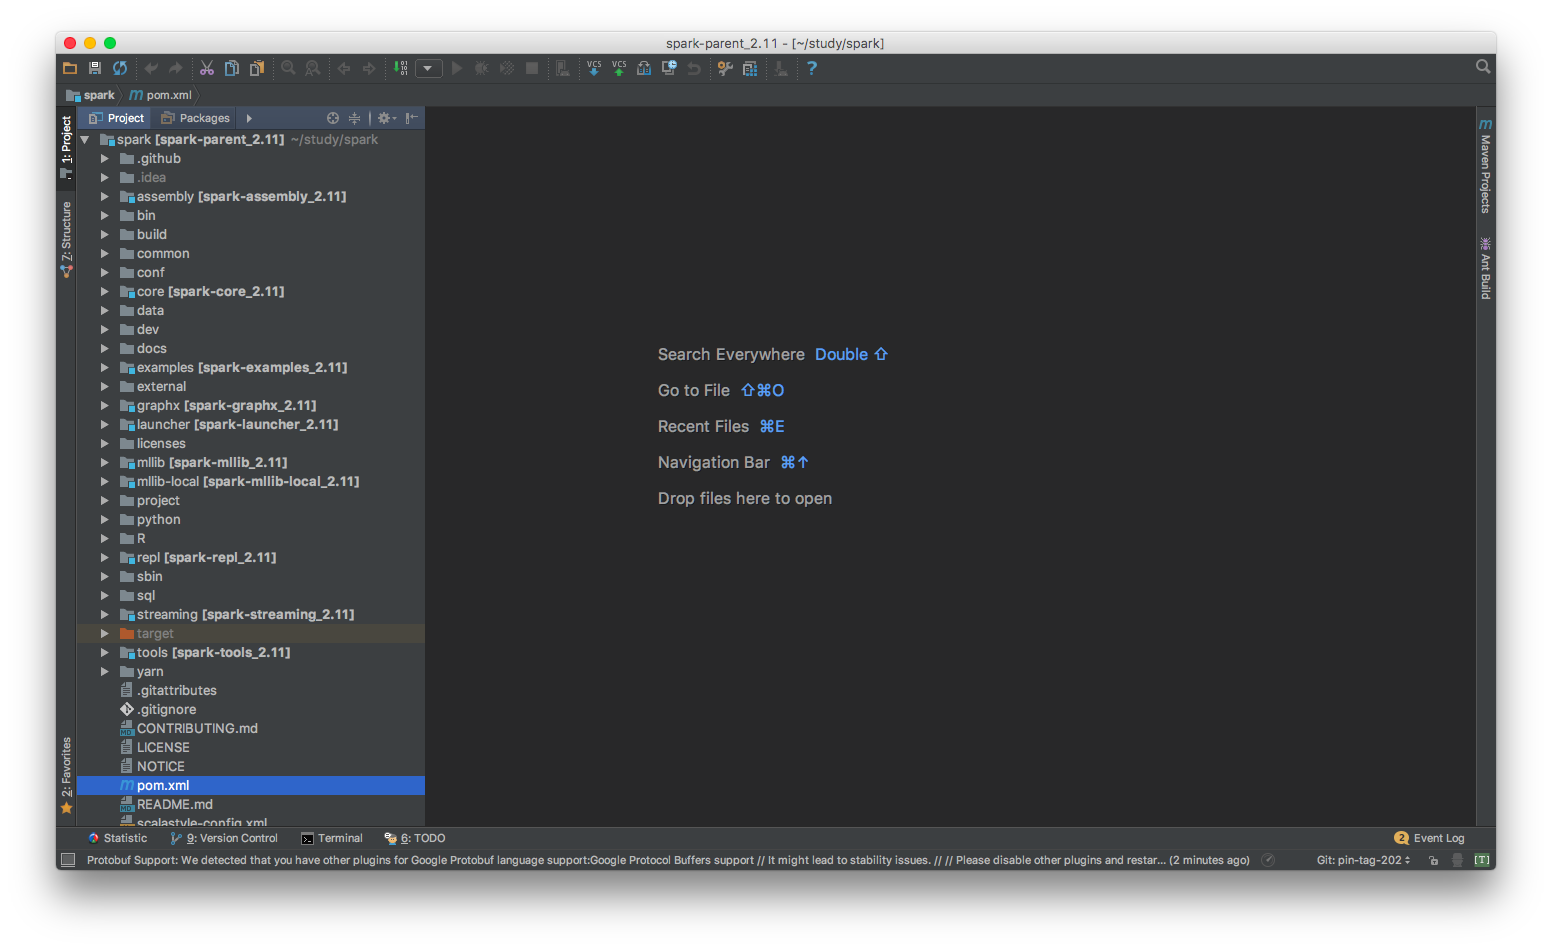
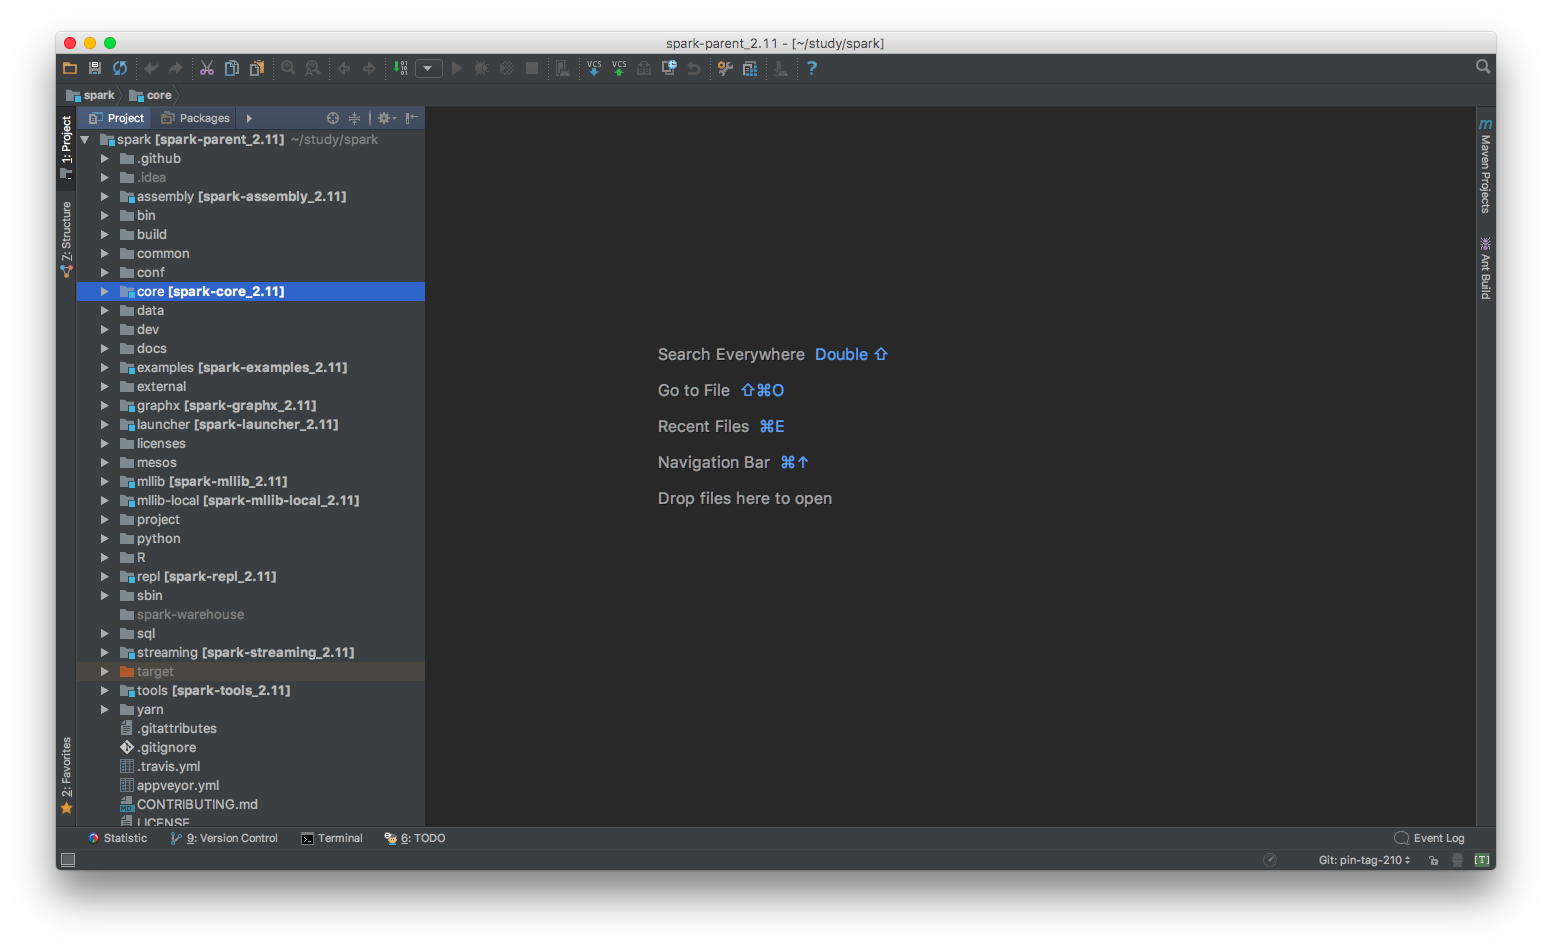
update ide-setup to spark 2.1.0

diff --git a/ide-setup.md b/ide-setup.md
@@ -34,14 +34,14 @@ tags: spark-notes
 ## 源码获取与编译
 
 ### 从Github上获取Spark源码
-可以直接从Spark官方Github仓库拉取。本系列笔记基于**Spark 2.0.2**这个版本，所以先checkout这个tag，再进行之后的步骤：
+可以直接从Spark官方Github仓库拉取。本系列笔记基于**Spark 2.1.0**这个版本，所以先checkout这个tag，再进行之后的步骤：
 
 ```bash
 $ git clone git@github.com:apache/spark.git
 $ cd spark
 $ git tag
-$ git checkout v2.0.2 
-$ git checkout -b pin-tag-202
+$ git checkout v2.1.0
+$ git checkout -b pin-tag-210
 ```
 
 如果想要push自己的commits，也可以fork到自己的Github账号下，再拉取到本地，可以参考我之前的文章：[Reading Spark Souce Code in IntelliJ IDEA](https://linbojin.github.io/2016/01/09/Reading-Spark-Souce-Code-in-IntelliJ-IDEA/)
